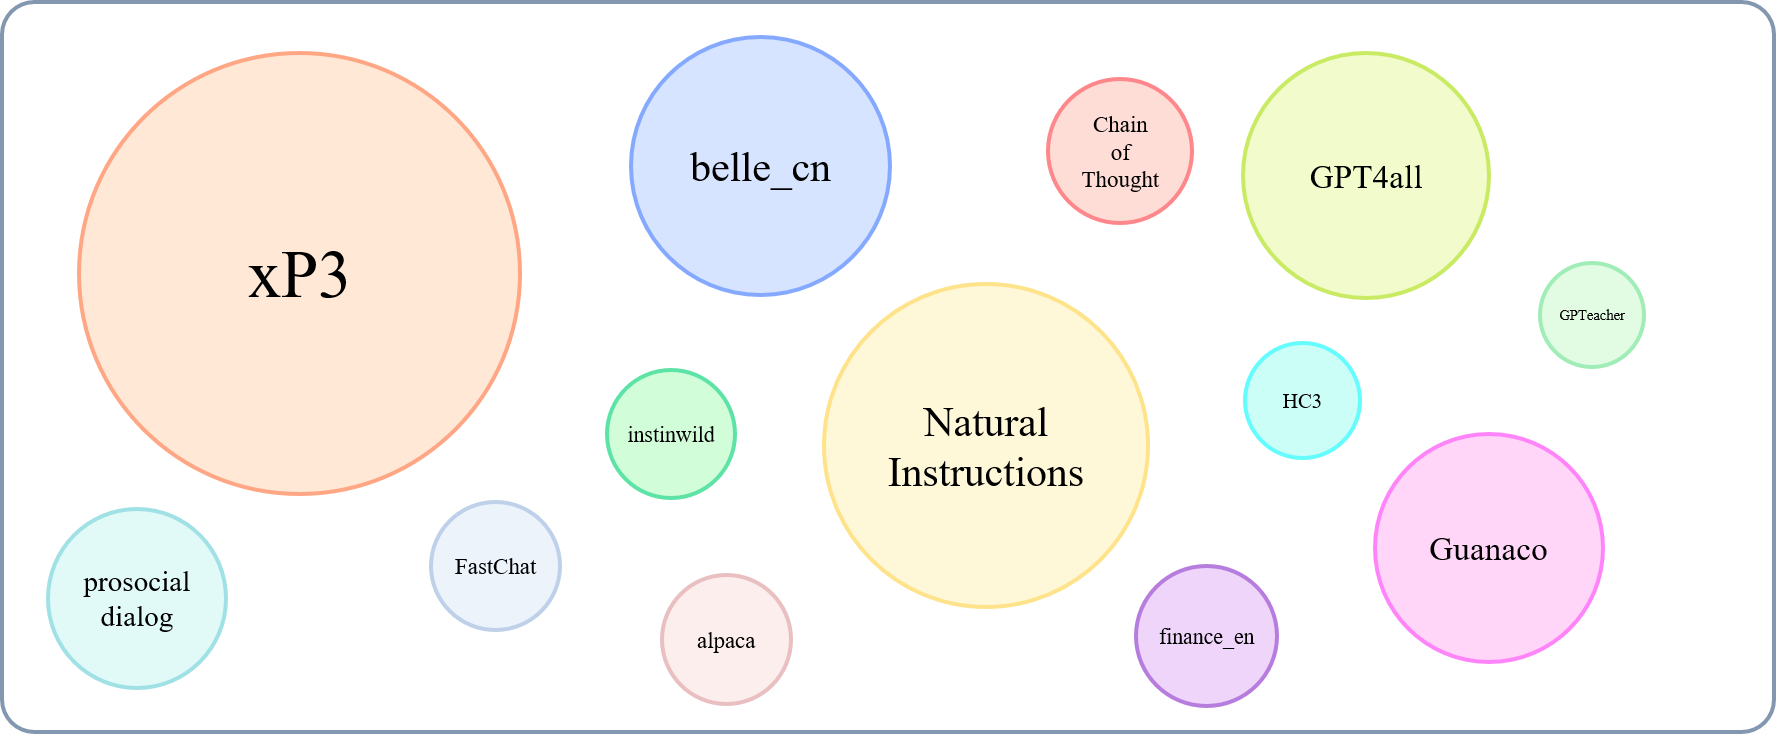
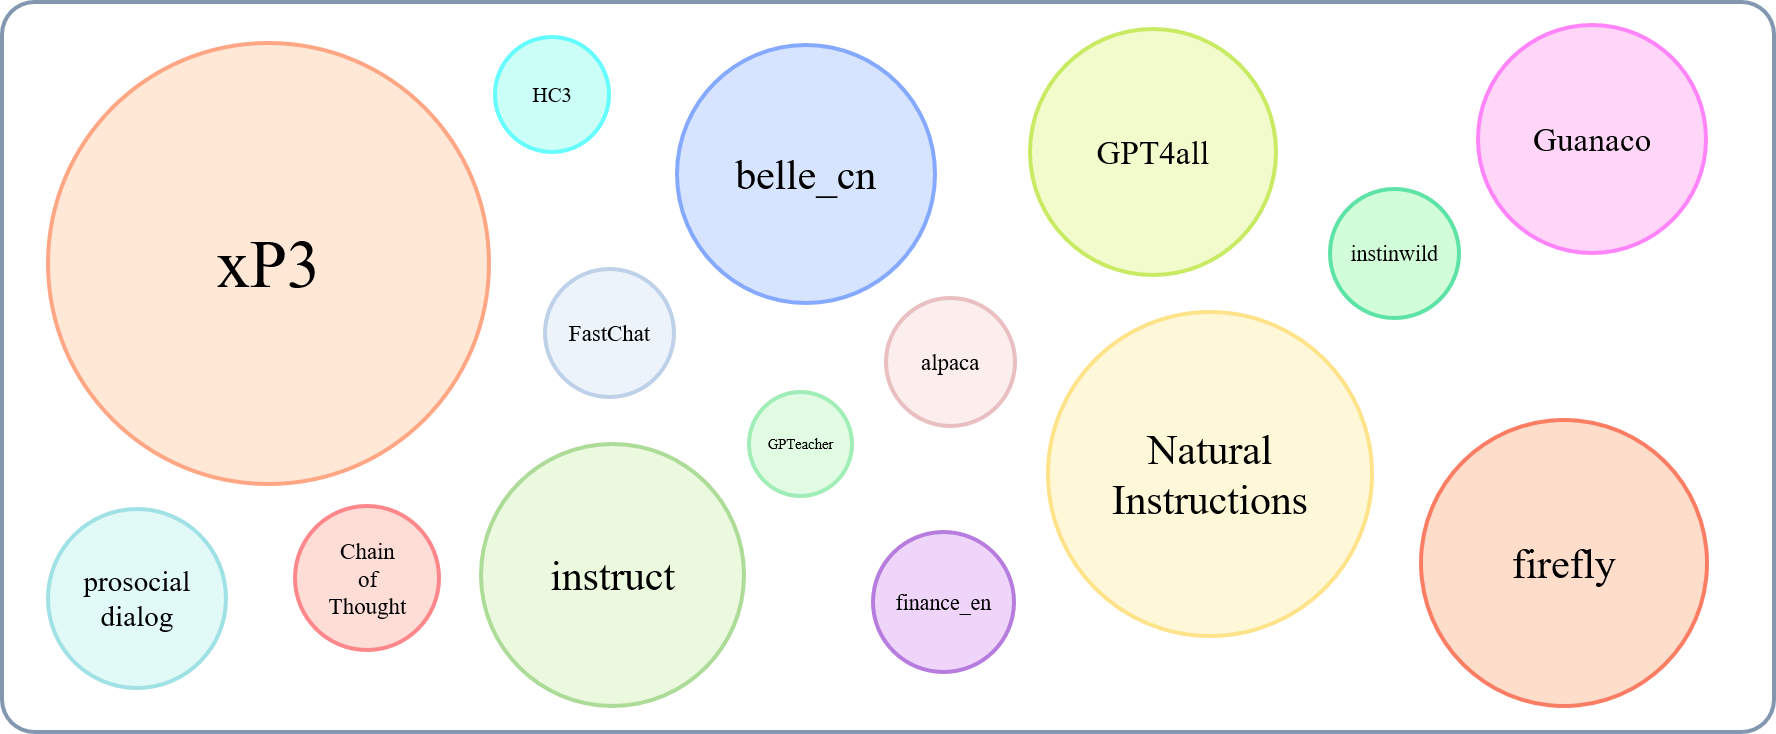
docs: add desc of firefly & instruct

diff --git a/README.md b/README.md
@@ -65,18 +65,20 @@ Referring to [this](https://github.com/yaodongC/awesome-instruction-dataset) ([@
 | Dataset                                                                        | Nums     | Lang         | Task      | Gen        | Type                                                                     | Src                                                                            | Url                                                                                             |
 | :----------------------------------------------------------------------------- | :------- | :----------- | :-------- | :----------| :----------------------------------------------------------------------- | :----------------------------------------------------------------------------- | :---------------------------------------------------------------------------------------------- |
 | [Chain of Thought](https://github.com/google-research/FLAN)                    | 74771    | EN/CN        | MT        | HG         | instruct with cot reasoning                                              | annotating CoT on existing data                                                | [download](https://huggingface.co/datasets/QingyiSi/Alpaca-CoT/tree/main/Chain-of-Thought)      |
-| [FastChat](https://github.com/lm-sys/FastChat)                                 |     | EN           | MT        | MIX        | general instruct                                                         | crowdsourcing to collect conversations between people and ChatGPT (ShareGPT)   | Waiting for its open source.                                                                    |
+| [FastChat](https://github.com/lm-sys/FastChat)                                 |          | EN           | MT        | MIX        | general instruct                                                         | crowdsourcing to collect conversations between people and ChatGPT (ShareGPT)   | Waiting for its open source.                                                                    |
 | [GPT4all](https://github.com/nomic-ai/gpt4all)                                 | 806199   | EN           | MT        | COL        | code, storys and dialogs                                                 | distillation from GPT-3.5-turbo                                                | [download](https://huggingface.co/datasets/QingyiSi/Alpaca-CoT/tree/main/GPT4all)               |
 | [GPTeacher](https://github.com/teknium1/GPTeacher)                             | 29013    | EN           | MT        | SI         | general, roleplay, toolformer                                            | GPT-4 & toolformer                                                             | [download](https://huggingface.co/datasets/QingyiSi/Alpaca-CoT/tree/main/GPTeacher)             |
 | [Guanaco](https://huggingface.co/datasets/JosephusCheung/GuanacoDataset)       | 534610   | ML           | MT        | SI         | various linguistic tasks                                                 | text-davinci-003                                                               | [download](https://huggingface.co/datasets/QingyiSi/Alpaca-CoT/tree/main/Guanaco)               |
 | [HC3](https://huggingface.co/datasets/Hello-SimpleAI/HC3)                      | 37175    | EN/CN        | TS        | MIX        | dialogue evaluation                                                      | human or ChatGPT                                                               | [download](https://huggingface.co/datasets/QingyiSi/Alpaca-CoT/tree/main/HC3)                   |
-| [alpaca](https://github.com/tatsu-lab/stanford_alpaca)                         | 52002    | EN           | MT        | SI         |  general instruct                                                        | text-davinci-003                                                               | [download](https://huggingface.co/datasets/QingyiSi/Alpaca-CoT/tree/main/alpaca)                |
+| [alpaca](https://github.com/tatsu-lab/stanford_alpaca)                         | 52002    | EN           | MT        | SI         | general instruct                                                         | text-davinci-003                                                               | [download](https://huggingface.co/datasets/QingyiSi/Alpaca-CoT/tree/main/alpaca)                |
 | [Natural Instructions](https://github.com/allenai/natural-instructions)        | 5040134  | ML           | MT        | COL        | diverse nlp tasks                                                        | human annotated datasets collection                                            | [download](https://huggingface.co/datasets/QingyiSi/Alpaca-CoT/tree/main/Natural-Instructions)  |
 | [belle_cn](https://huggingface.co/BelleGroup)                                  | 1079517  | CN           | TS/MT     | SI         | general, mathematical reasoning, dialogue                                | text-davinci-003                                                               | [download](https://huggingface.co/datasets/QingyiSi/Alpaca-CoT/tree/main/belle_cn)              |
 | [instinwild](https://github.com/XueFuzhao/InstructionWild)                     | 52191    | EN/CN        | MT        | SI         | generation, open-qa, mind-storm                                          | text-davinci-003                                                               | [download](https://huggingface.co/datasets/QingyiSi/Alpaca-CoT/tree/main/instinwild)            |
 | [prosocial dialog](https://huggingface.co/datasets/allenai/prosocial-dialog)   | 165681   | EN           | TS        | MIX        | dialogue                                                                 | GPT-3 rewrites questions + humans feedback manually                            | [download](https://huggingface.co/datasets/QingyiSi/Alpaca-CoT/tree/main/prosocial-dialog)      |
 | [finance_en](https://huggingface.co/datasets/gbharti/finance-alpaca)           | 68912    | EN           | TS        | COL        | financial related qa                                                     | GPT3.5                                                                         | [download](https://huggingface.co/datasets/QingyiSi/Alpaca-CoT/tree/main/)                      |
-| [xP3](https://huggingface.co/datasets/bigscience/xP3)                          | 78883588 | ML           | MT        | COL        | a collection of prompts & datasets across 46 of languages & 16 NLP tasks | human   annotated datasets collection                                          | [download](https://huggingface.co/datasets/QingyiSi/Alpaca-CoT/tree/main/xP3)                   |
+| [xP3](https://huggingface.co/datasets/bigscience/xP3)                          | 78883588 | ML           | MT        | COL        | a collection of prompts & datasets across 46 of languages & 16 NLP tasks | human annotated datasets collection                                            | [download](https://huggingface.co/datasets/QingyiSi/Alpaca-CoT/tree/main/xP3)                   |
+| [firefly](https://github.com/yangjianxin1/Firefly)                             | 1649398  | CN           | MT        | COL        | 23 nlp tasks                                                             | human annotated datasets collection                                            | [download](https://huggingface.co/datasets/QingyiSi/Alpaca-CoT/tree/main/firefly)                   |
+| [instruct](https://huggingface.co/datasets/swype/instruct)                     | 888969   | EN           | MT        | COL        | augmented of GPT4All, Alpaca, open-source Meta datasets                  | augmentation performed using the advanced NLP tools provided by AllenAI        | [download](https://huggingface.co/datasets/QingyiSi/Alpaca-CoT/tree/main/instruct)                   |
 
 
 

diff --git a/CN_README.md b/CN_README.md
@@ -79,21 +79,23 @@ ChatGPT的出现验证了大型语言模型(LLM)在通用人工智能(AGI)上的
 - COL: [Collection of Dataset] Dataset made from a collection of other datasets
 
 ### 数据统计
-| 数据集                                                                         | 数目     | Lang         | Task      | Gen        | 类型                              | 来源                                      | 链接                                                                                      |
+| 数据集                                                                          | 数目     | Lang         | Task      | Gen        | 类型                              | 来源                                      | 链接                                                                                      |
 | :----------------------------------------------------------------------------- | :------- | :----------- | :-------- | :----------| :------------------------------- | :---------------------------------------- | :---------------------------------------------------------------------------------------- |
 | [Chain of Thought](https://github.com/google-research/FLAN)                    | 74771    | EN/CN        | MT        | HG         | CoT相关任务                       | 人在现有数据集上标注CoT                    | [下载](https://huggingface.co/datasets/QingyiSi/Alpaca-CoT/tree/main/Chain-of-Thought)    |
-| [FastChat](https://github.com/lm-sys/FastChat)                                 |     | EN           | MT        | MIX        | 通用指令                          | 众包收集ChatGPT与人的交互 (ShareGPT)       | 等待开源                                                                                  |
+| [FastChat](https://github.com/lm-sys/FastChat)                                 |          | EN           | MT        | MIX        | 通用指令                          | 众包收集ChatGPT与人的交互 (ShareGPT)       | 等待开源                                                                                  |
 | [GPT4all](https://github.com/nomic-ai/gpt4all)                                 | 806199   | EN           | MT        | COL        | 代码，故事，对话                   | GPT-3.5-turbo 蒸馏                        | [下载](https://huggingface.co/datasets/QingyiSi/Alpaca-CoT/tree/main/GPT4all)            |
 | [GPTeacher](https://github.com/teknium1/GPTeacher)                             | 29013    | EN           | MT        | SI         | 通用，角色扮演，工具指令           | GPT-4 & toolformer                        | [下载](https://huggingface.co/datasets/QingyiSi/Alpaca-CoT/tree/main/GPTeacher)          |
 | [Guanaco](https://huggingface.co/datasets/JosephusCheung/GuanacoDataset)       | 534610   | ML           | MT        | SI         | 多种nlp任务                       | text-davinci-003                          | [下载](https://huggingface.co/datasets/QingyiSi/Alpaca-CoT/tree/main/Guanaco)            |
 | [HC3](https://huggingface.co/datasets/Hello-SimpleAI/HC3)                      | 37175    | EN/CN        | TS        | MIX        | 对话评估                          | gpt-3.5 或 人工                           | [下载](https://huggingface.co/datasets/QingyiSi/Alpaca-CoT/tree/main/HC3)                 |
-| [alpaca](https://github.com/tatsu-lab/stanford_alpaca)                         | 52002    | EN           | MT        | SI         | 通用指令                          | text-davinci-003                         | [下载](https://huggingface.co/datasets/QingyiSi/Alpaca-CoT/tree/main/alpaca)               |
+| [alpaca](https://github.com/tatsu-lab/stanford_alpaca)                         | 52002    | EN           | MT        | SI         | 通用指令                          | text-davinci-003                          | [下载](https://huggingface.co/datasets/QingyiSi/Alpaca-CoT/tree/main/alpaca)               |
 | [Natural Instructions](https://github.com/allenai/natural-instructions)        | 5040134  | ML           | MT        | COL        | 多种nlp任务                       | 人工标注的数据集的收集                     | [下载](https://huggingface.co/datasets/QingyiSi/Alpaca-CoT/tree/main/Natural-Instructions) |
 | [belle_cn](https://huggingface.co/BelleGroup)                                  | 1079517  | CN           | TS/MT     | SI         | 通用指令，数学推理，对话           | text-davunci-003                         | [下载](https://huggingface.co/datasets/QingyiSi/Alpaca-CoT/tree/main/belle_cn)             |
 | [instinwild](https://github.com/XueFuzhao/InstructionWild)                     | 52191    | EN/CN        | MT        | SI         | 生成，开放域问答，头脑风暴         | text-davunci-003                         | [下载](https://huggingface.co/datasets/QingyiSi/Alpaca-CoT/tree/main/instinwild)           |
 | [prosocial dialog](https://huggingface.co/datasets/allenai/prosocial-dialog)   | 165681   | EN           | TS        | MIX        | 对话                              | GPT-3改写问题，人工回复                   | [下载](https://huggingface.co/datasets/QingyiSi/Alpaca-CoT/tree/main/prosocial-dialog)     |
 | [finance_en](https://huggingface.co/datasets/gbharti/finance-alpaca)           | 68912    | EN           | TS        | COL        | 金融领域问答                      | GPT3.5                                    | [下载](https://huggingface.co/datasets/QingyiSi/Alpaca-CoT/tree/main/)                     |
 | [xP3](https://huggingface.co/datasets/bigscience/xP3)                          | 78883588 | ML           | MT        | COL        | 多种nlp任务                       | 人工标注的数据集的收集                     | [下载](https://huggingface.co/datasets/QingyiSi/Alpaca-CoT/tree/main/xP3)                  |
+| [firefly](https://github.com/yangjianxin1/Firefly)                             | 1649398  | CN           | MT        | COL        | 23种nlp任务                       | 收集中文数据集，人工书写指令模板           | [下载](https://huggingface.co/datasets/QingyiSi/Alpaca-CoT/tree/main/firefly)                   |
+| [instruct](https://huggingface.co/datasets/swype/instruct)                     | 888969   | EN           | MT        | COL        | GPT4All，Alpaca和开源数据集的增强  | 使用AllenAI提供的nlp增强工具               | [下载](https://huggingface.co/datasets/QingyiSi/Alpaca-CoT/tree/main/instruct)                   |
 
 该集合仍在不断更新和扩增中。可在以下链接下载和查看更多数据细节：https://github.com/PhoebusSi/alpaca-CoT/tree/main/data
 
